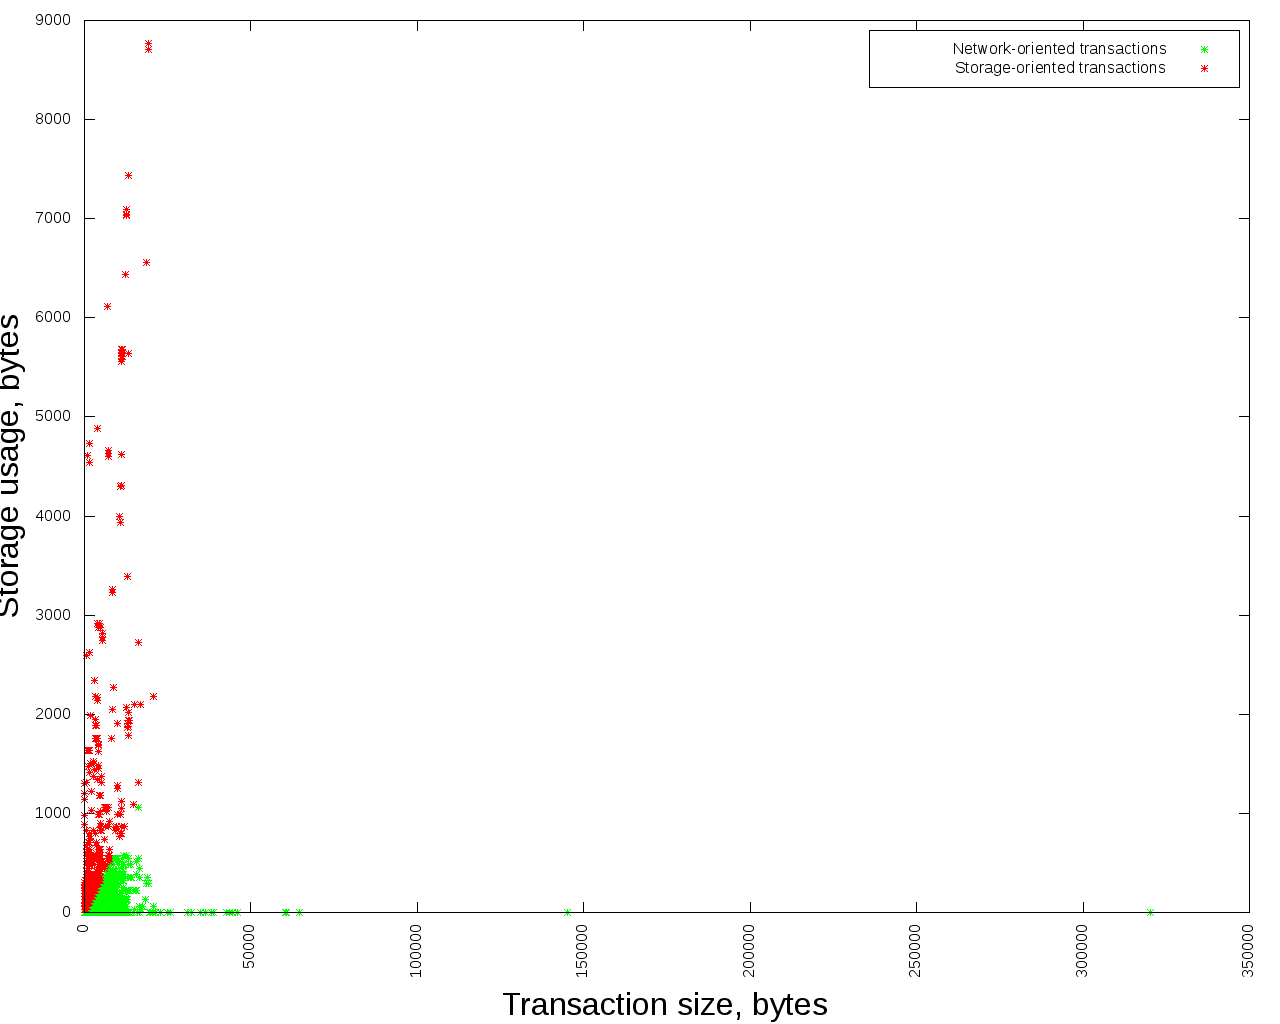
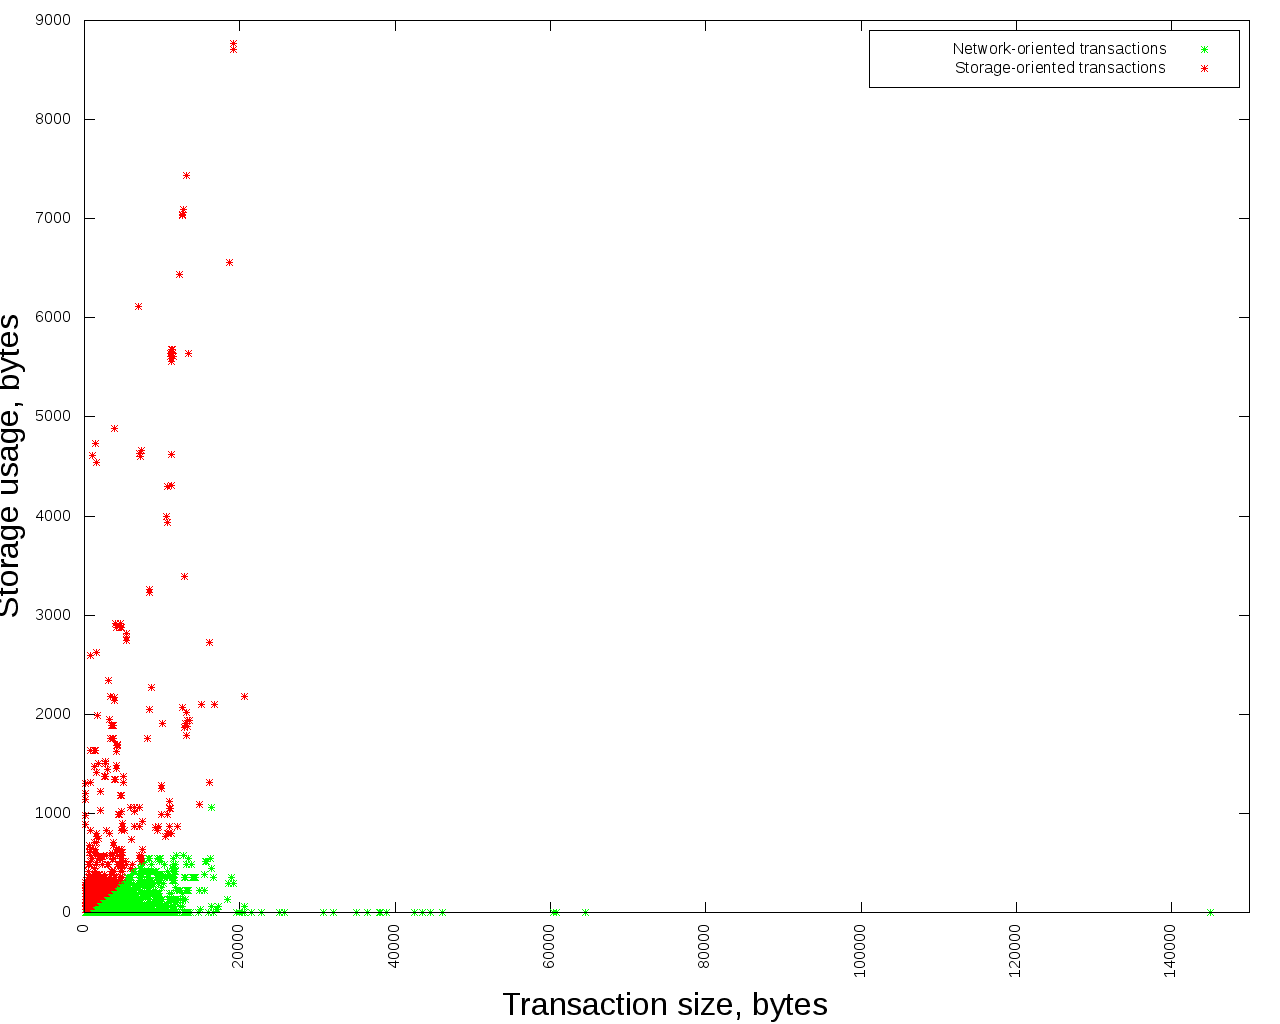
Section 5

diff --git a/fc18/sse.tex b/fc18/sse.tex
@@ -423,29 +423,76 @@ values, and verify the validity of described transaction classification, the
 data from the Ethereum network was taken. We consider Ethereum a good example,
 since all three components of the resource consumption are present in its
 network. The network load parameter $N_b(tx)$ is a transaction size; the state
-load $\Delta(tx)$ can also be deduced from the blockchain, and to quantify the
-computational load $N_c(tx)$, the built-in Ethereum gas system was used.  As the
-base cost of the Ethereum transaction contains the terms proportional to the
-transaction size (treating zero and non-zero bytes separately), the
-corresponding gas has been subtracted (by our terms it falls into the network
-load). Another parameter of interest is the storage time.  Using it directly
-from the blockchain in weakly relevant to our scheme because the participants do
-not get any reward for removing it from the state earlier rather than later.
-However, we consider the time delay between the data submission and its
-addressing to be the reliable parameter reflecting the needs of the users.
+load $\Delta(tx)$ can also be deduced from the blockchain by processing SSTORE
+and CREATE operations in transactions. To quantify the
+computational load $N_c(tx)$, the built-in Ethereum gas system was used. As the
+gas usage of the Ethereum transaction contains the base costб proportional to the
+transaction size and the storage cost, proportional to number of SSTORE and CREATE
+operations, the corresponding gas has been substracted from computational load.
 
-\vk{block range; justify representativeness}
+\begin{figure}
+    \centering
+    \begin{subfigure}[b]{0.44\textwidth}
+        \includegraphics[width=\textwidth]{figures/txs3d}
+        \caption{}
+        \label{fig:a}
+    \end{subfigure}
+    \begin{subfigure}[b]{0.44\textwidth}
+        \includegraphics[width=\textwidth]{figures/txs-size-computation}
+        \caption{}
+        \label{fig:b}
+    \end{subfigure}
 
-The results are presented on Fig. .. and .. Each point corresponds to the
-transaction.  One can notice that parts of the distribution on Fig.~(3d) extend
+    \begin{subfigure}[b]{0.44\textwidth}
+        \includegraphics[width=\textwidth]{figures/txs-size-storage}
+        \caption{}
+        \label{fig:a}
+    \end{subfigure}
+    \begin{subfigure}[b]{0.44\textwidth}
+        \includegraphics[width=\textwidth]{figures/txs-storage-computation}
+        \caption{}
+        \label{fig:b}
+    \end{subfigure}
+
+    \caption{Ethereum transactions differentiation by resource consumption}\label{fig:animals}
+\end{figure}
+
+\dnote{make letters larger}
+
+The results of processing first $2\cdot10^6$ blocks in Ethereum network are presented on Fig.4. Each point corresponds to the
+transaction.  One can notice that parts of the distribution on Fig.4 extend
 along the coordinate axis --- these are the transactions which can be
 unambiguously distinguished by their type of the resource consumption. Their
 presence confirms our expectations on the nature of resource consumption, and
 serves as a justification of the proposed classification scheme. The space of
-transactions is split into three parts by the aforementioned vector $\mathbf{n}$
-with the endpoint at the first momentum of the distribution. This gives the
-following estimate on the ratio between the pricing coefficients for the
-expected state size:
+transactions is split into three parts by the aforementioned vector $\mathbf{n}$ \dnote{where was in mentioned?}
+with the endpoint at the first momentum of the distribution.
+
+Another parameter of interest is the storage time. Using it directly
+from the blockchain in weakly relevant to our scheme because the participants do
+not get any reward for removing it from the state earlier rather than later.
+However, we consider the time delay between the data submission and its
+addressing to be the reliable parameter reflecting the needs of the users.
+Analysis of Ethereum blockchain showed that in a lot of cases data stored in the state
+was touched by other transactions in the same block or few blocks after insertion.
+We assumed that in this was not interesting to us blockchain as storage usecase
+and this data is not representative. Excluded such short-lived data from our analisys
+we estimated that average lifetime of a data in Ethereum is 23731 blocks or about 4 days
+regarding 15 seconds average time interal between blocks.
+
+This gives the following estimate on the ratio between the pricing coefficients for the expected state size:
+
+\begin{align}
+\begin{split}
+&\frac{\alpha}{\beta} \approx 7.7\cdot10^{-3} \\
+&\frac{\alpha}{S} \approx 6.7\cdot10^{-4}
+\end{split}
+\end{align}
+
+where $S$ is the cost of the storage of byte of output in the state for one block and does
+not depend on state size in Ethereum. This estimations are quite approximate, while their
+changes won't affect fees for most of transactions, that can unambiguously be attributed
+to concrete type of the resource consumption.
 
 \section{Conclusion}
 \label{sec:conslusion}
